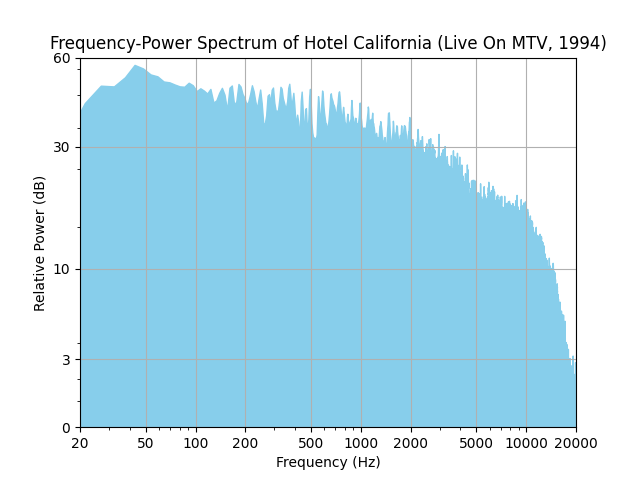
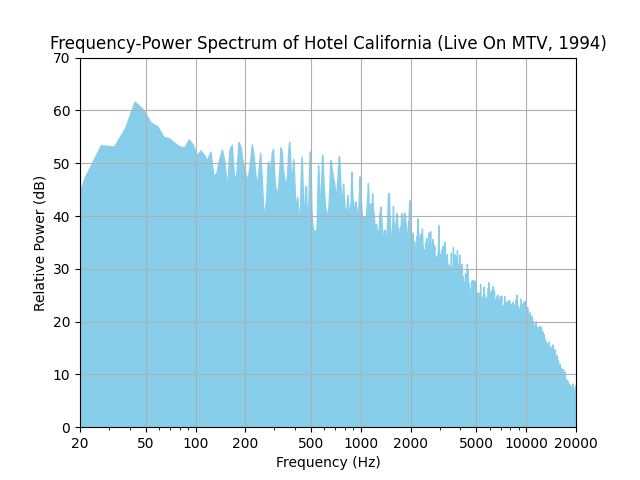
update power analysis

diff --git a/analysis tools/power analysis of music.py b/analysis tools/power analysis of music.py
@@ -7,6 +7,25 @@ sample_rate, data = wavfile.read(
     "./draft/Hotel California (Live On MTV, 1994) mono.wav")
 
 
+def freq_amplitude(data):
+    frequencies, times, Zxx = stft(data, fs=sample_rate, nperseg=8192)
+    power = np.abs(Zxx)
+    avg_power = np.mean(power, axis=1)
+    plt.fill_between(frequencies, 10*np.log10(avg_power),
+                     color='skyblue')
+    plt.xscale('log')
+    plt.xlim(20, 20000)
+    plt.ylim(0, 30)
+    plt.xlabel('Frequency (Hz)')
+    plt.ylabel('Relative Power (dB)')
+    plt.title('Frequency-Amplitude Spectrum of Hotel California (Live On MTV, 1994)')
+    plt.grid(True)
+    plt.xticks([20, 50, 100, 200, 500, 1000, 2000, 5000, 10000, 20000], [
+               '20', '50', '100', '200', '500', '1000', '2000', '5000', '10000', '20000'])
+    plt.savefig(
+        './analysis results/freq amplitude spectrum of Hotel California (Live On MTV, 1994).png')
+
+
 def freq_power(data):
     frequencies, times, Zxx = stft(data, fs=sample_rate, nperseg=8192)
     power = np.abs(Zxx) ** 2
@@ -14,16 +33,14 @@ def freq_power(data):
     plt.fill_between(frequencies, 10*np.log10(avg_power),
                      color='skyblue')
     plt.xscale('log')
-    plt.yscale('log')
     plt.xlim(20, 20000)
-    plt.ylim(5, 65)
+    plt.ylim(0, 70)
     plt.xlabel('Frequency (Hz)')
     plt.ylabel('Relative Power (dB)')
     plt.title('Frequency-Power Spectrum of Hotel California (Live On MTV, 1994)')
     plt.grid(True)
     plt.xticks([20, 50, 100, 200, 500, 1000, 2000, 5000, 10000, 20000], [
                '20', '50', '100', '200', '500', '1000', '2000', '5000', '10000', '20000'])
-    plt.yticks([5, 8, 15, 35, 65], ['0', '3', '10', '30', '60'])
     plt.savefig(
         './analysis results/freq power spectrum of Hotel California (Live On MTV, 1994).png')
 
@@ -46,5 +63,6 @@ def time_freq_power(data):
         './analysis results/power spectrum of Hotel California (Live On MTV, 1994).png')
 
 
+# freq_amplitude(data)
 # freq_power(data)
-time_freq_power(data)
+# time_freq_power(data)
